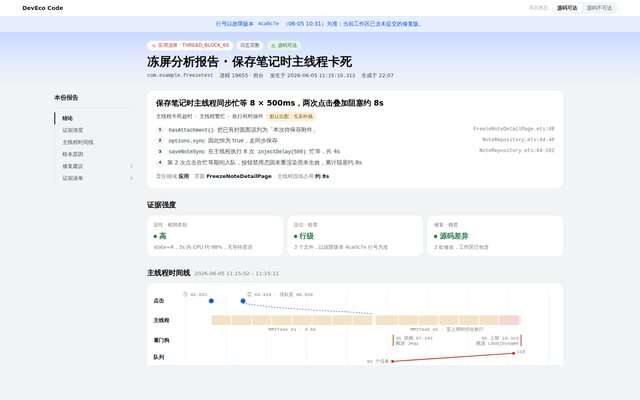
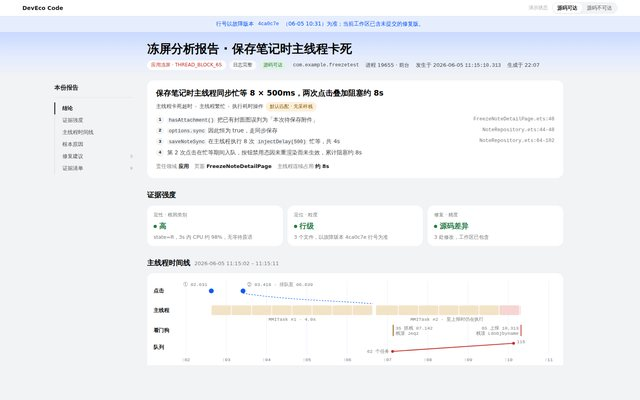
demo 28 头图状态胶囊并入元信息行、去掉图标
应用冻屏 / 日志完整 / 源码可达（不可达）三个胶囊挪到标题下方，和包名、进程、
发生时间、生成时间排成一行；胶囊里的图标去掉。

diff --git a/demos/28-appfreeze-report/index.html b/demos/28-appfreeze-report/index.html
@@ -50,7 +50,6 @@ svg.i{width:16px;height:16px;fill:none;stroke:currentColor;stroke-width:1.6;stro
 .hero{background:linear-gradient(180deg,#C9D9FF 0%,#E4ECFD 55%,var(--page) 100%)}
 .hero-in{max-width:var(--wrap);margin:0 auto;padding:22px 56px 18px;display:flex;align-items:flex-end;gap:24px;flex-wrap:wrap}
 .hero .l{flex:1;min-width:320px}
-.eyebrow{display:flex;gap:8px;align-items:center;flex-wrap:wrap;margin-bottom:8px}
 .pill{display:inline-flex;align-items:center;gap:5px;height:24px;padding:0 10px;border-radius:999px;font-size:12px;background:var(--fill);color:var(--ink2);white-space:nowrap}
 .hero .pill{background:rgba(255,255,255,.72)}
 .pill.yes{background:var(--yes-soft);color:var(--yes)}
@@ -59,7 +58,8 @@ svg.i{width:16px;height:16px;fill:none;stroke:currentColor;stroke-width:1.6;stro
 .hero .pill.no{background:#fff;color:var(--no)}
 .pill svg.i{width:13px;height:13px}
 h1{font-size:30px;font-weight:700;line-height:1.3;color:var(--ink)}
-.meta{margin-top:6px;font-size:13px;color:var(--ink2);display:flex;flex-wrap:wrap;gap:4px 16px}
+.meta{margin-top:10px;font-size:13px;color:var(--ink2);display:flex;flex-wrap:wrap;align-items:center;gap:6px 16px}
+.meta .pill+.pill{margin-left:-8px}
 
 /* ===== 骨架：文档中心式居中容器，左树 + 正文 ===== */
 .wrap{max-width:var(--wrap);margin:0 auto;display:flex;gap:36px;padding:8px 56px 88px}
@@ -202,15 +202,12 @@ h1{font-size:30px;font-weight:700;line-height:1.3;color:var(--ink)}
 </head>
 <body>
 <svg width="0" height="0" style="position:absolute" aria-hidden="true">
-  <symbol id="i-pulse" viewBox="0 0 24 24"><path d="M3 12h4l3-8 4 16 3-8h4"/></symbol>
   <symbol id="i-chev" viewBox="0 0 24 24"><path d="M9 6l6 6-6 6"/></symbol>
   <symbol id="i-x" viewBox="0 0 24 24"><path d="M6 6l12 12M18 6L6 18"/></symbol>
   <symbol id="i-check" viewBox="0 0 24 24"><path d="M5 12.5l4.5 4.5L19 7"/></symbol>
   <symbol id="i-bang" viewBox="0 0 24 24"><path d="M12 5v9M12 18.5v.5"/></symbol>
   <symbol id="i-minus" viewBox="0 0 24 24"><path d="M6 12h12"/></symbol>
   <symbol id="i-q" viewBox="0 0 24 24"><path d="M9.5 9a2.5 2.5 0 1 1 3.5 2.3c-.6.3-1 .9-1 1.6V14M12 18v.5"/></symbol>
-  <symbol id="i-lock" viewBox="0 0 24 24"><rect x="5" y="11" width="14" height="9" rx="2"/><path d="M8 11V8a4 4 0 0 1 8 0v3"/></symbol>
-  <symbol id="i-unlock" viewBox="0 0 24 24"><rect x="5" y="11" width="14" height="9" rx="2"/><path d="M8 11V8a4 4 0 0 1 7.5-2"/></symbol>
 </svg>
 
 <div class="top">
@@ -399,13 +396,13 @@ function render(anim){
     ? `行号以故障版本 <span class="mono">4ca0c7e</span>（06-05 10:31）为准；当前工作区已含未提交的修复版。`
     : `<b>本次按要求未检索工程源码：</b>定位到业务函数（来自应用日志），行号不可用；修复建议为通用方向与模板。`;
   $('#hero').innerHTML=`<div class="hero"><div class="hero-in"><div class="l">
-      <div class="eyebrow">
-        <span class="pill no">${ic('pulse')}应用冻屏 · THREAD_BLOCK_6S</span>
-        <span class="pill">日志完整</span>
-        ${v2?`<span class="pill yes">${ic('unlock')}源码可达</span>`:`<span class="pill part">${ic('lock')}源码不可达</span>`}
-      </div>
       <h1>冻屏分析报告 · 保存笔记时主线程卡死</h1>
-      <div class="meta"><span class="mono">com.example.freezetest</span><span>进程 19655 · 前台</span><span>发生于 2026-06-05 <span class="mono">11:15:10.313</span></span><span>生成于 ${v2?'22:07':'21:04'}</span></div>
+      <div class="meta">
+        <span class="pill no">应用冻屏 · THREAD_BLOCK_6S</span>
+        <span class="pill">日志完整</span>
+        ${v2?`<span class="pill yes">源码可达</span>`:`<span class="pill part">源码不可达</span>`}
+        <span class="mono">com.example.freezetest</span><span>进程 19655 · 前台</span><span>发生于 2026-06-05 <span class="mono">11:15:10.313</span></span><span>生成于 ${v2?'22:07':'21:04'}</span>
+      </div>
     </div></div></div>`;
   $('#main').innerHTML=`<div class="stack ${anim?'fade':''}">
     <section id="sec-verdict" class="card verdict">
